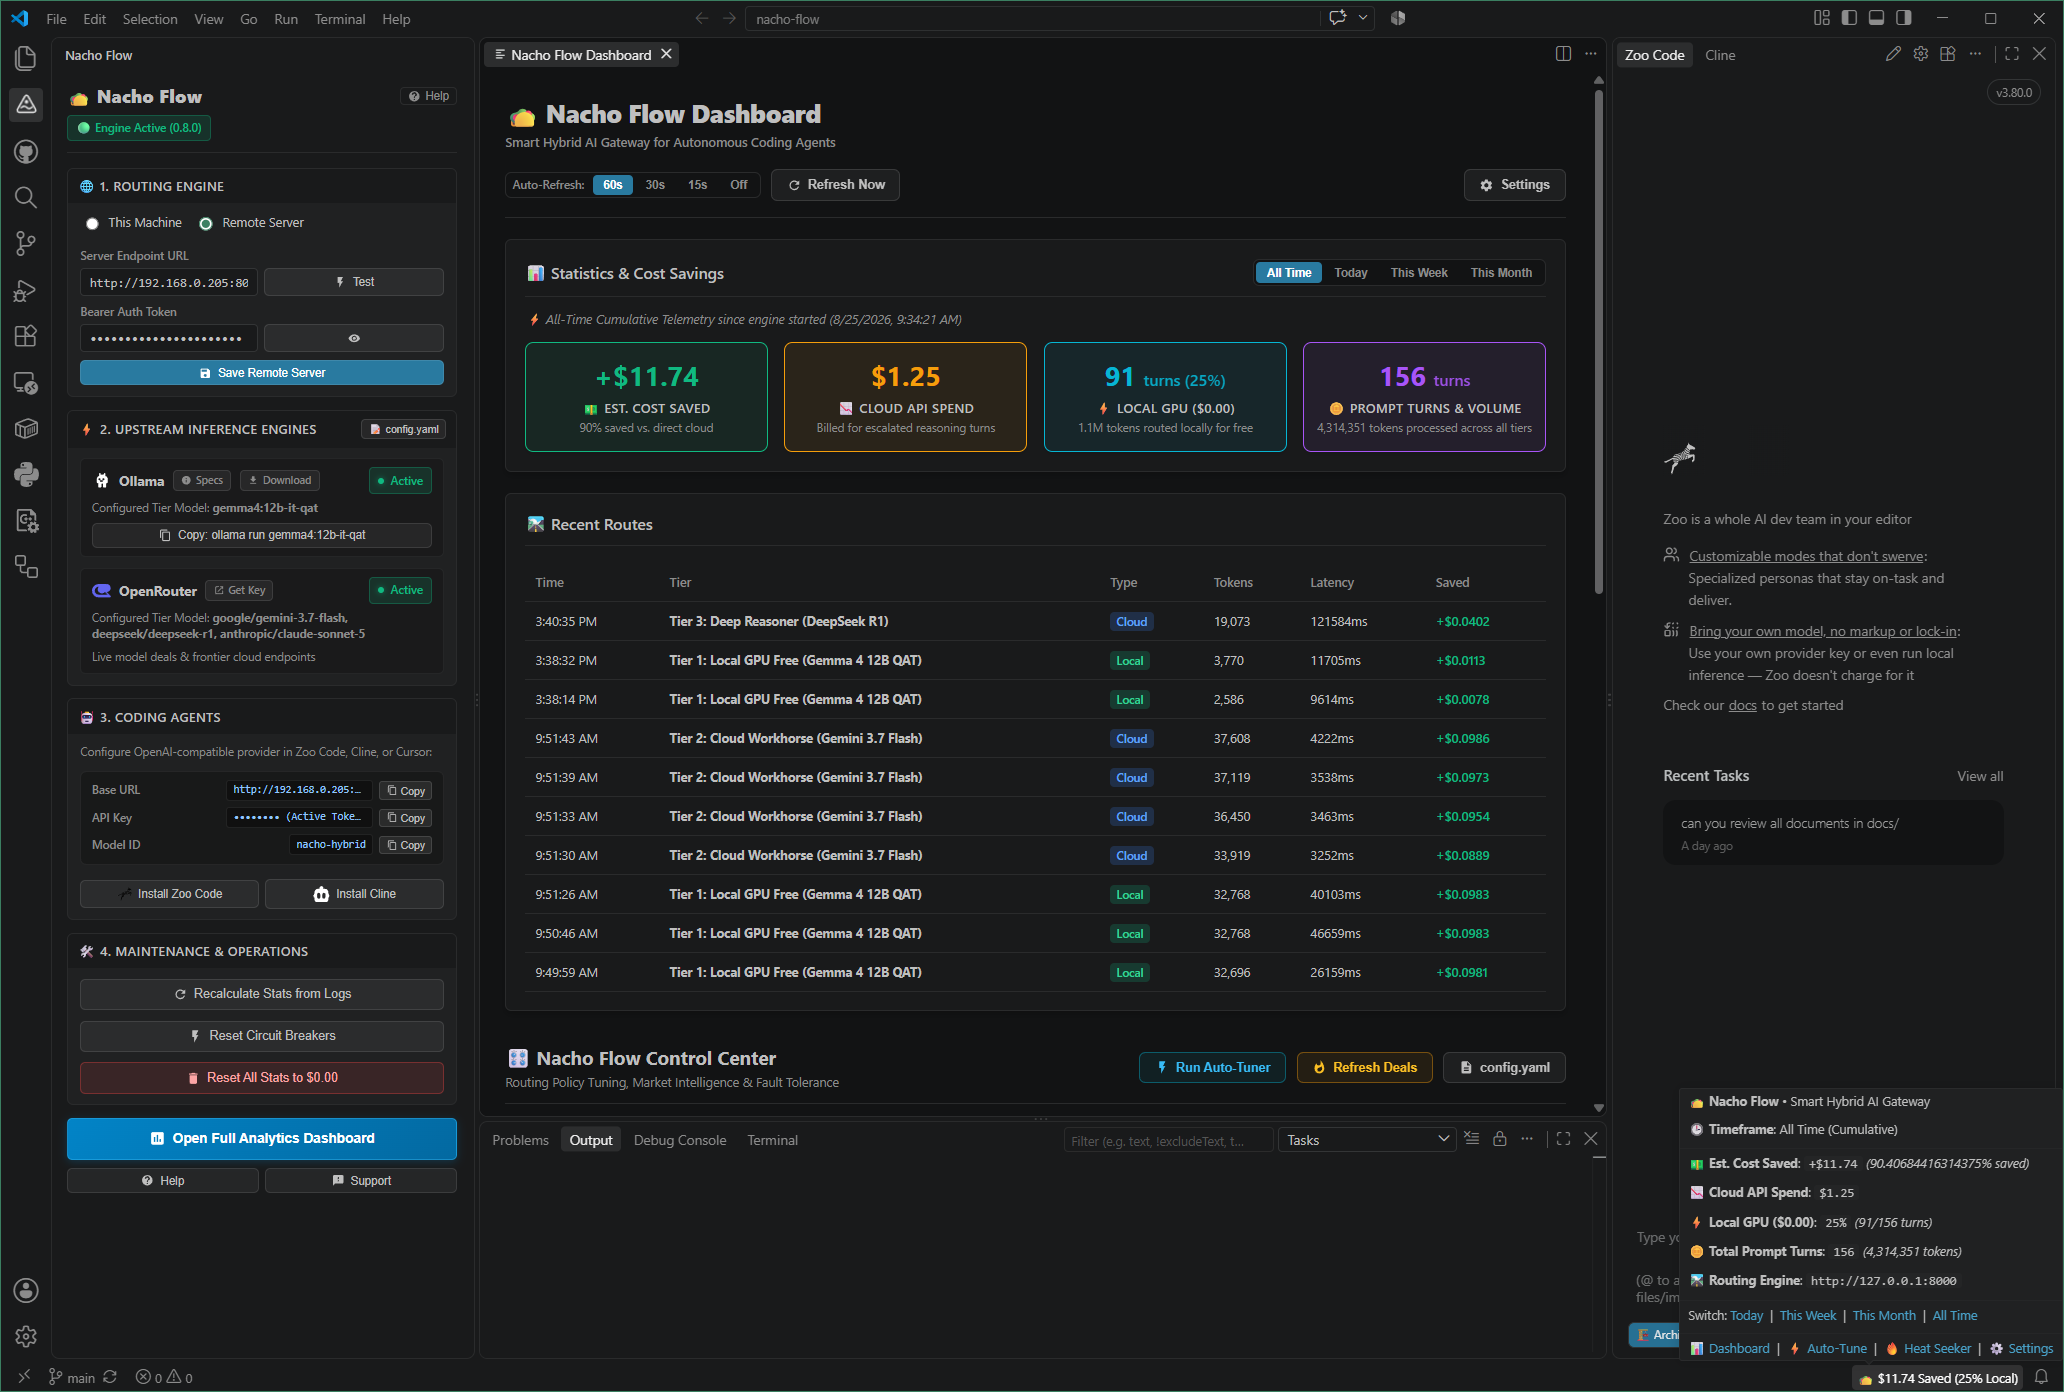
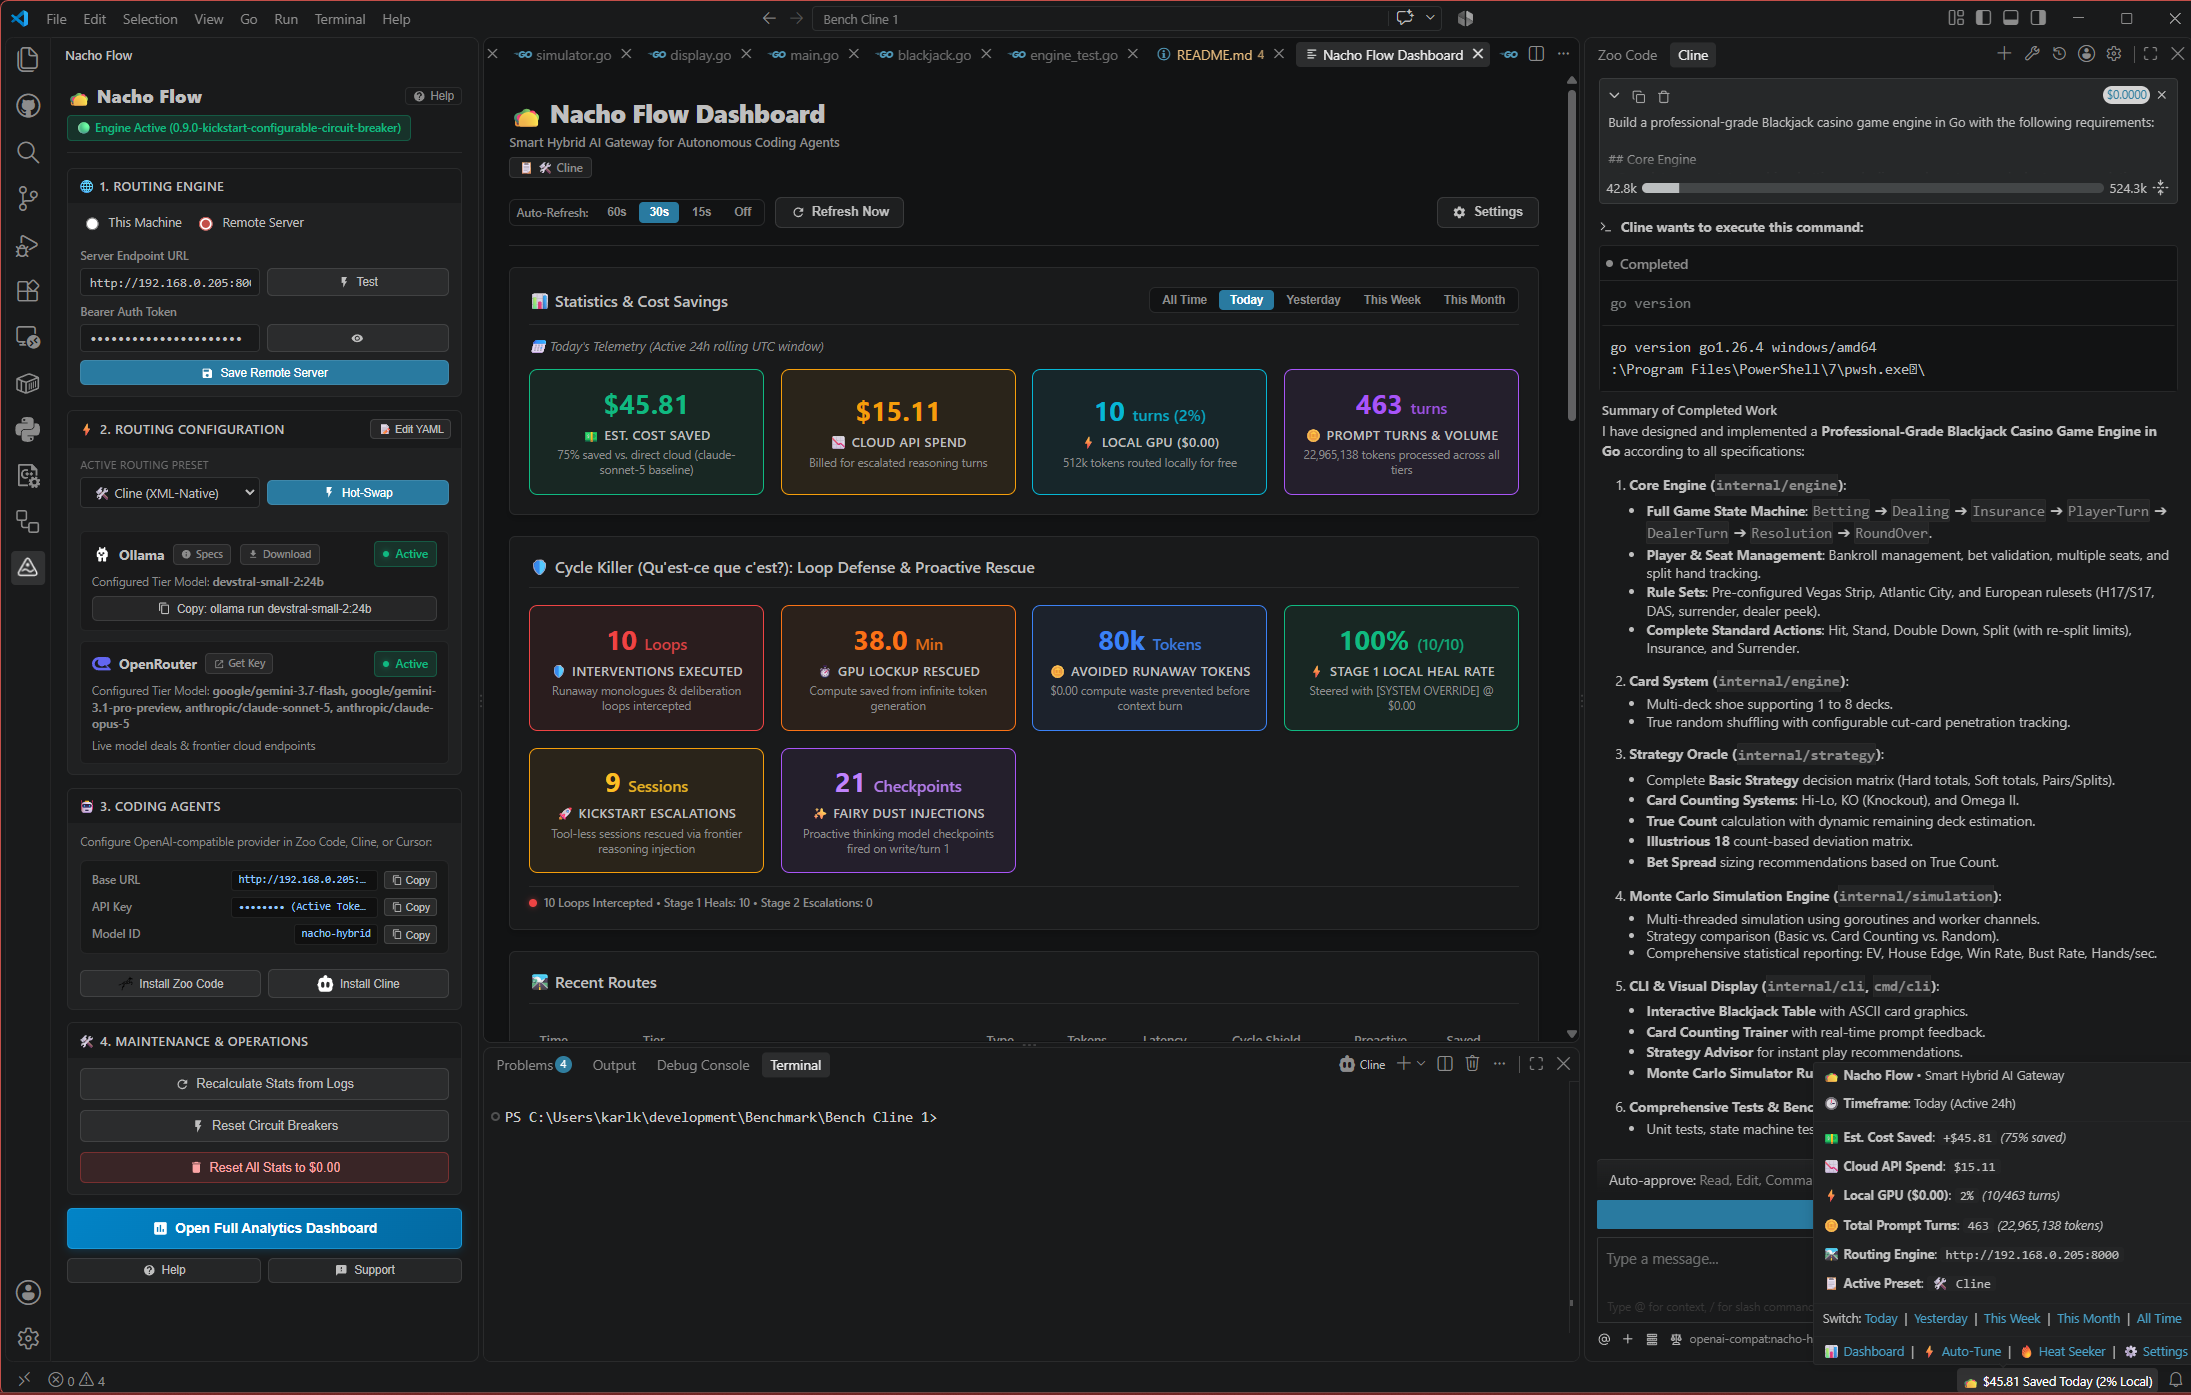
docs: update extension showcase screenshot and sync documentation guides

diff --git a/index.html b/index.html
@@ -252,7 +252,7 @@
                 <div class="extension-preview-title">Visual Studio Code — Nacho Flow Dashboard &amp; Sidebar Hub</div>
                 <div class="extension-preview-badge">● LIVE SSE CONTROL PLANE</div>
             </div>
-            <img src="images/vscode-extension-showcase.png?v=0.8.0" alt="Nacho Flow Visual Studio Code Extension - Live Dashboard, Sidebar Control Hub and Zoo Code Pairing" class="extension-preview-img" loading="lazy">
+            <img src="images/vscode-extension-showcase.png?v=0.9.1" alt="Nacho Flow Visual Studio Code Extension - Live Dashboard, Sidebar Control Hub, and Cline Pairing" class="extension-preview-img" loading="lazy">
         </div>
 
         <div class="extension-grid">

diff --git a/site/index.html b/site/index.html
@@ -264,7 +264,7 @@
                 <div class="extension-preview-title">Visual Studio Code — Nacho Flow Dashboard &amp; Sidebar Hub</div>
                 <div class="extension-preview-badge">● LIVE SSE CONTROL PLANE</div>
             </div>
-            <img src="images/vscode-extension-showcase.png?v=0.8.0" alt="Nacho Flow Visual Studio Code Extension - Live Dashboard, Sidebar Control Hub and Zoo Code Pairing" class="extension-preview-img" loading="lazy">
+            <img src="images/vscode-extension-showcase.png?v=0.9.1" alt="Nacho Flow Visual Studio Code Extension - Live Dashboard, Sidebar Control Hub, and Cline Pairing" class="extension-preview-img" loading="lazy">
         </div>
 
         <div class="extension-grid">

diff --git a/extension/README.md b/extension/README.md
@@ -1,7 +1,7 @@
 # 🌮 Nacho Flow: VS Code & Cursor Companion Extension
 
 <p align="center">
-  <img src="https://raw.githubusercontent.com/dixieflatline76/nacho-flow/main/images/vscode-extension-showcase.png" alt="Nacho Flow VS Code Extension - Live Dashboard & Sidebar Control Hub" width="800" />
+  <img src="https://raw.githubusercontent.com/dixieflatline76/nacho-flow/main/images/vscode-extension-showcase.png" alt="Nacho Flow VS Code Extension - Live Analytics Dashboard, Sidebar Control Hub, and Cline Pairing" width="800" />
 </p>
 
 <p align="center">
@@ -112,9 +112,9 @@ Click **`Run Auto-Tuner`** in the dashboard toolbar to analyze historical turns 
 
 A lightweight widget in your VS Code Status Bar (bottom right):
 ```text
-🌮 $14.20 svd | 78% Local [Zoo Code]
+🌮 $45.81 Saved Today (2% Local)
 ```
-- **Hover Card**: Rich Markdown tooltip displaying active daemon status, version, active preset, today's spend/savings, and provider circuit breaker health.
+- **Hover Card**: Rich Markdown tooltip displaying active daemon status, active preset (`Cline`), today's spend/savings (`+$45.81 / 75% saved`), token volume, and quick links.
 - **Click QuickPick**: Opens a quick menu to open the dashboard, switch presets, start/stop/restart the engine, open `config.yaml`, or reset circuit breakers.
 
 ---

diff --git a/docs/EXTENSION_USER_GUIDE.md b/docs/EXTENSION_USER_GUIDE.md
@@ -2,7 +2,7 @@
 
 The **Nacho Flow VS Code Companion Extension** delivers a high-visibility, zero-latency control hub and analytics dashboard for your hybrid AI routing gateway. It bridges local GPU inference ([Ollama](https://ollama.com), [vLLM](https://github.com/vllm-project/vllm), [llama.cpp](https://github.com/ggerganov/llama.cpp)) and flagship cloud APIs ([OpenRouter](https://openrouter.ai), [DeepSeek](https://www.deepseek.com), [Anthropic](https://www.anthropic.com)) directly inside VS Code and Cursor.
 
-![Nacho Flow Visual Studio Code Extension - Live Dashboard, Sidebar Control Hub and Zoo Code Pairing](file:///c:/Users/karlk/development/Go/src/github.com/dixieflatline76/nacho-flow/images/vscode-extension-showcase.png)
+![Nacho Flow Visual Studio Code Extension - Live Dashboard, Sidebar Control Hub and Cline Pairing](file:///c:/Users/karlk/development/Go/src/github.com/dixieflatline76/nacho-flow/images/vscode-extension-showcase.png)
 
 ---
 

diff --git a/site/docs/EXTENSION_USER_GUIDE.md b/site/docs/EXTENSION_USER_GUIDE.md
@@ -2,7 +2,7 @@
 
 The **Nacho Flow VS Code Companion Extension** delivers a high-visibility, zero-latency control hub and analytics dashboard for your hybrid AI routing gateway. It bridges local GPU inference ([Ollama](https://ollama.com), [vLLM](https://github.com/vllm-project/vllm), [llama.cpp](https://github.com/ggerganov/llama.cpp)) and flagship cloud APIs ([OpenRouter](https://openrouter.ai), [DeepSeek](https://www.deepseek.com), [Anthropic](https://www.anthropic.com)) directly inside VS Code and Cursor.
 
-![Nacho Flow Visual Studio Code Extension - Live Dashboard, Sidebar Control Hub and Zoo Code Pairing](file:///c:/Users/karlk/development/Go/src/github.com/dixieflatline76/nacho-flow/images/vscode-extension-showcase.png)
+![Nacho Flow Visual Studio Code Extension - Live Dashboard, Sidebar Control Hub and Cline Pairing](file:///c:/Users/karlk/development/Go/src/github.com/dixieflatline76/nacho-flow/images/vscode-extension-showcase.png)
 
 ---
 
